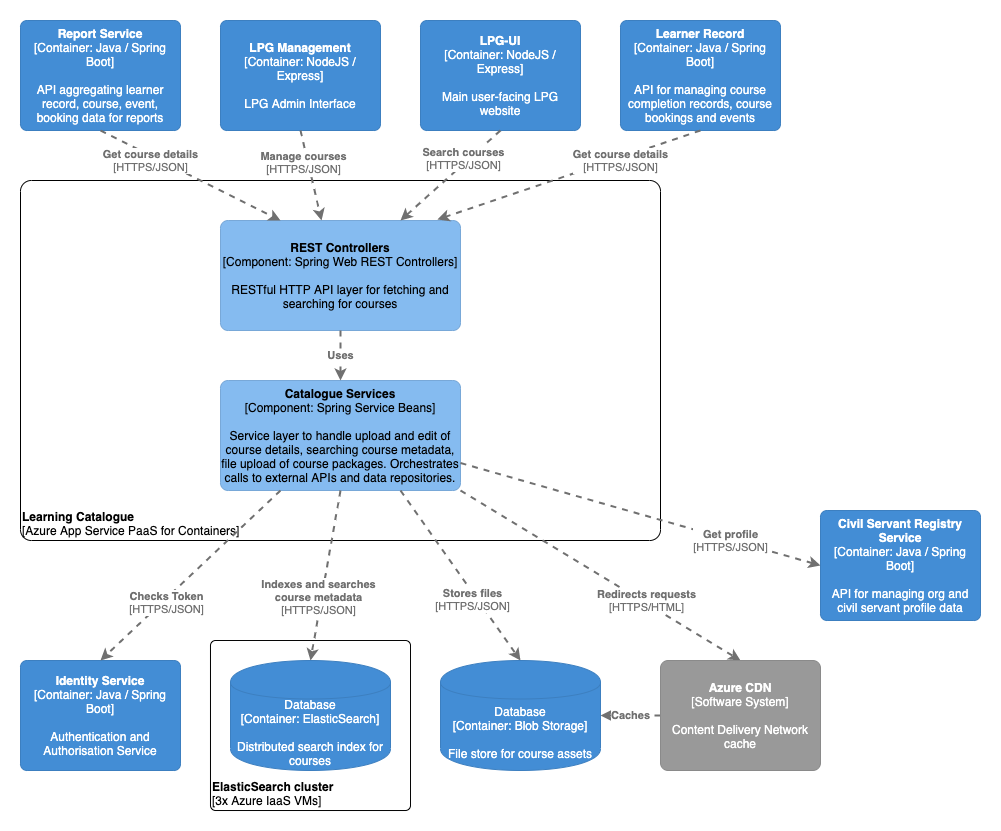
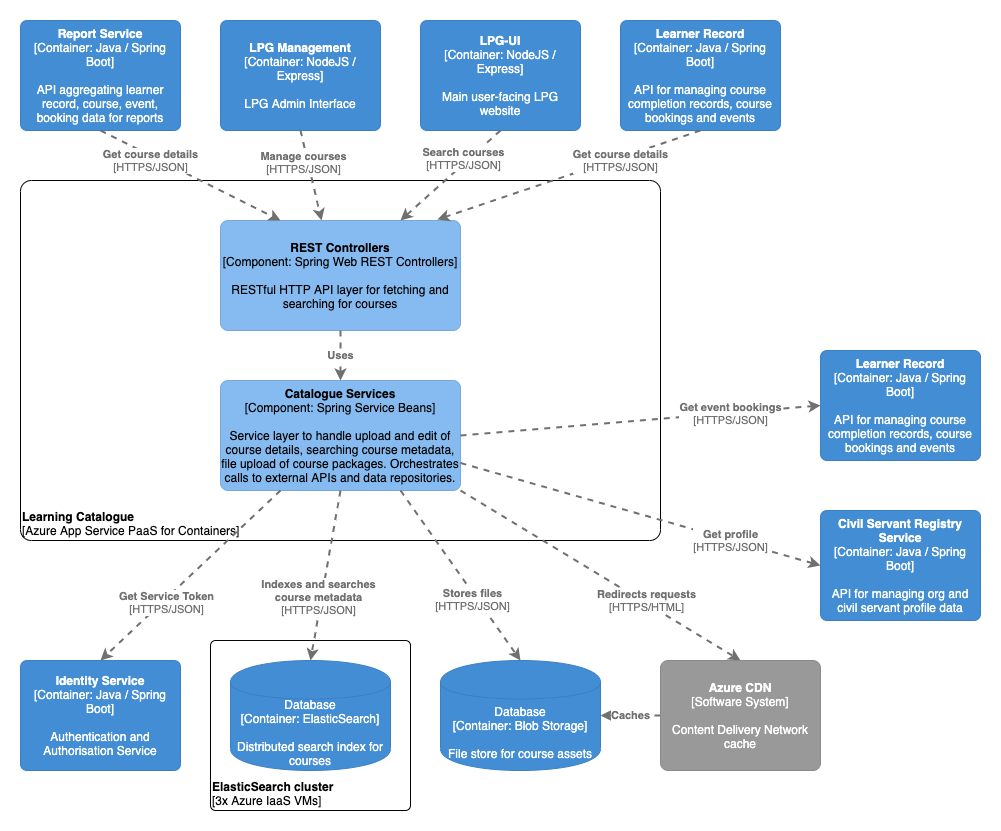
Updating readme, license and diagrams to reflect JWT changes

Changed region(s): [[0.8052, 0.4212, 0.991, 0.5716], [0.6813, 0.4813, 0.7742, 0.5114], [0.1239, 0.6919, 0.2168, 0.722]]

diff --git a/README.md b/README.md
@@ -19,6 +19,7 @@ See the `diagram/` folder for diagram source in draw.io XML format
 For a complete list of build dependencies check the `build.gradle` file. The main source dependencies are:  
 - Spring Boot 2.0 (web, jetty, jersey, security, config)
 - Spring Security OAuth2 2.3.3
+- Spring Security JWT 1.1.1
 - Spring Data elasticsearch
 - Azure Storage 8.0
 - Azure App Insights 2.5
@@ -76,7 +77,7 @@ Deployment is controlled via the Terraform scripts in the main PaaS repository, 
 
 Significant configuration properties are highlighted here. For the full configuration file see `src/main/resources/application.yml`
 
-- `oauth` connection settings for the identity-service used to validate bearer tokens
+- `oauth` connection settings for the identity-service used to create cross-service bearer tokens
 - `record` connection settings and paths for the learner-record service
 - `registry` connection settings for the civil-servant-registry-service
 - `elasticsearch` connection settings for the ElasticSearch cluster
